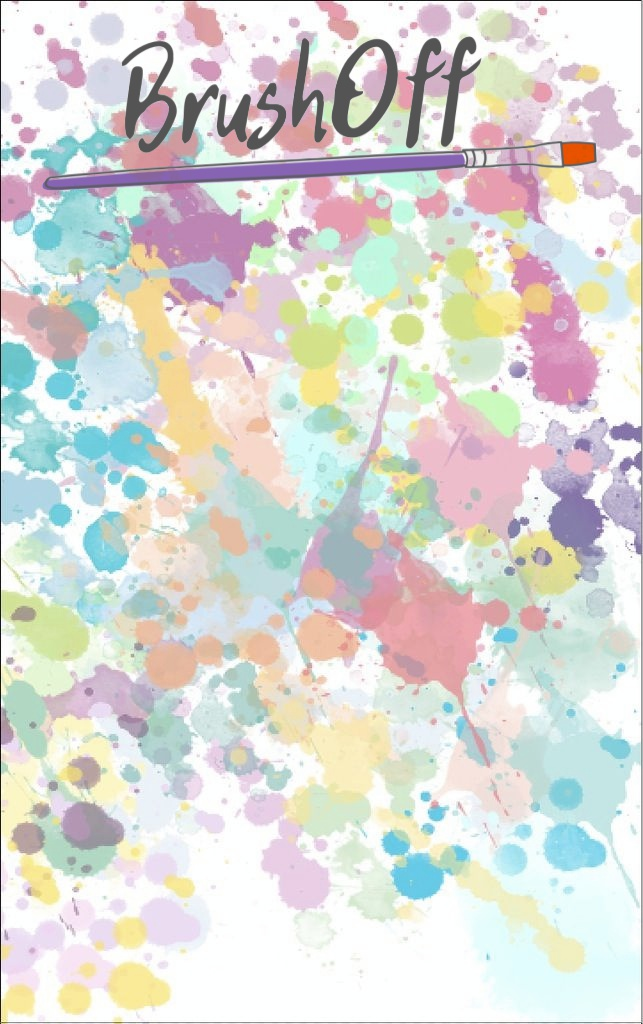
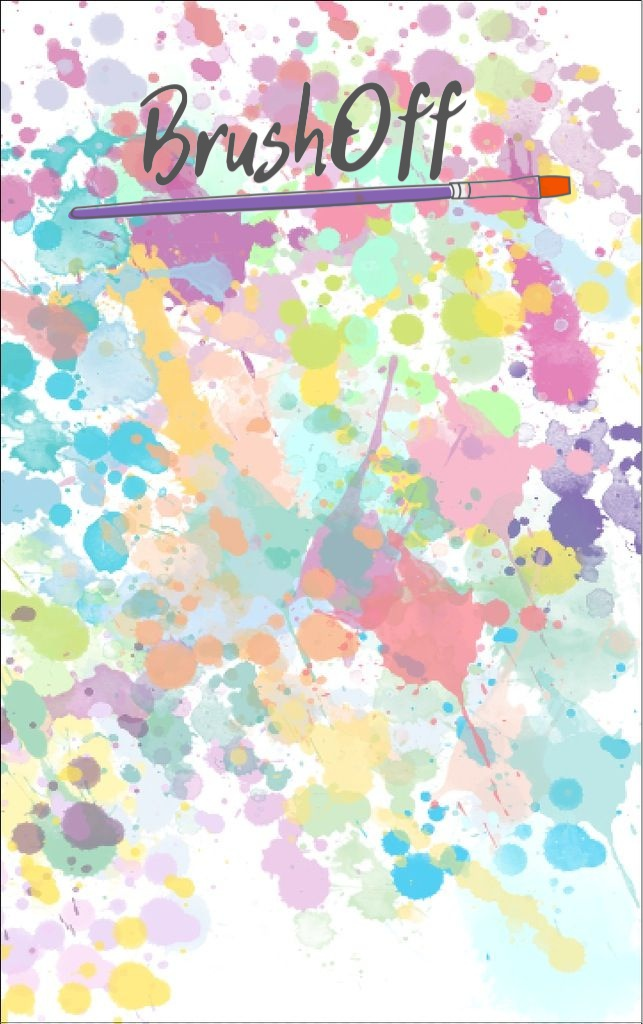
Updated background images
Updated background images, hopefully with 100% less cut-off.

Changed region(s): [[0.0622, 0.0312, 0.9331, 0.2188], [0.7465, 0.2812, 0.7776, 0.3438]]

diff --git a/screens/Categories.js b/screens/Categories.js
@@ -49,7 +49,7 @@ export default class CategoriesScreen extends React.Component {
     const { navigate } = this.props.navigation;
     return (
       <ImageBackground
-        source={require('./img/categories-back.jpg')}
+        source={require('./img/new-categories.jpg')}
         imageStyle={{resizeMode: 'stretch'}}
         style={{flex: 1}}
       >

diff --git a/screens/Lobby.js b/screens/Lobby.js
@@ -165,7 +165,7 @@ export default class LobbyScreen extends React.Component {
   render() {
     return (
       <ImageBackground
-        source={require('./img/player-names-back.jpg')}
+        source={require('./img/new-lobby.jpg')}
         imageStyle={{resizeMode: 'stretch'}}
         style={{flex: 1}}
       >
